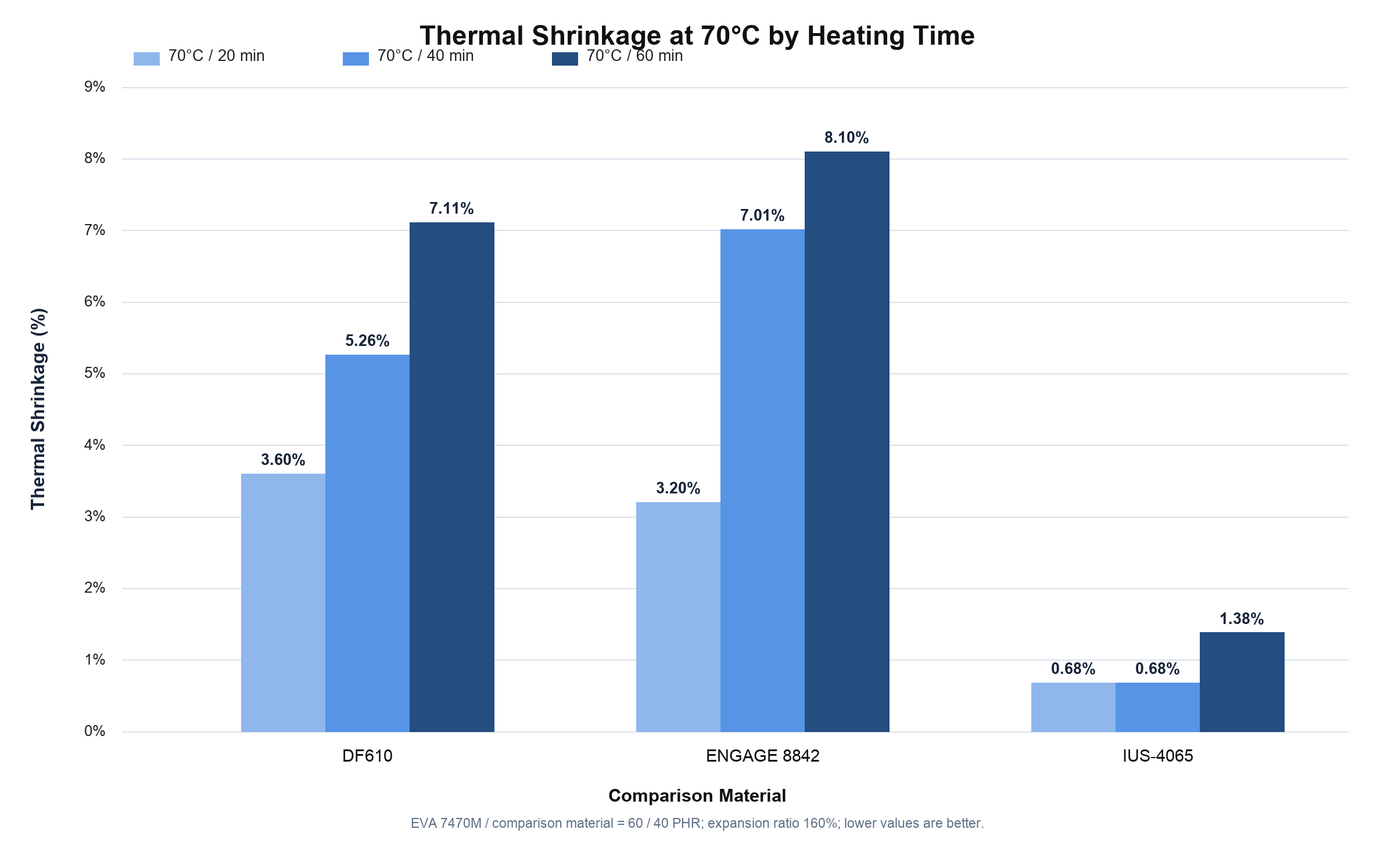
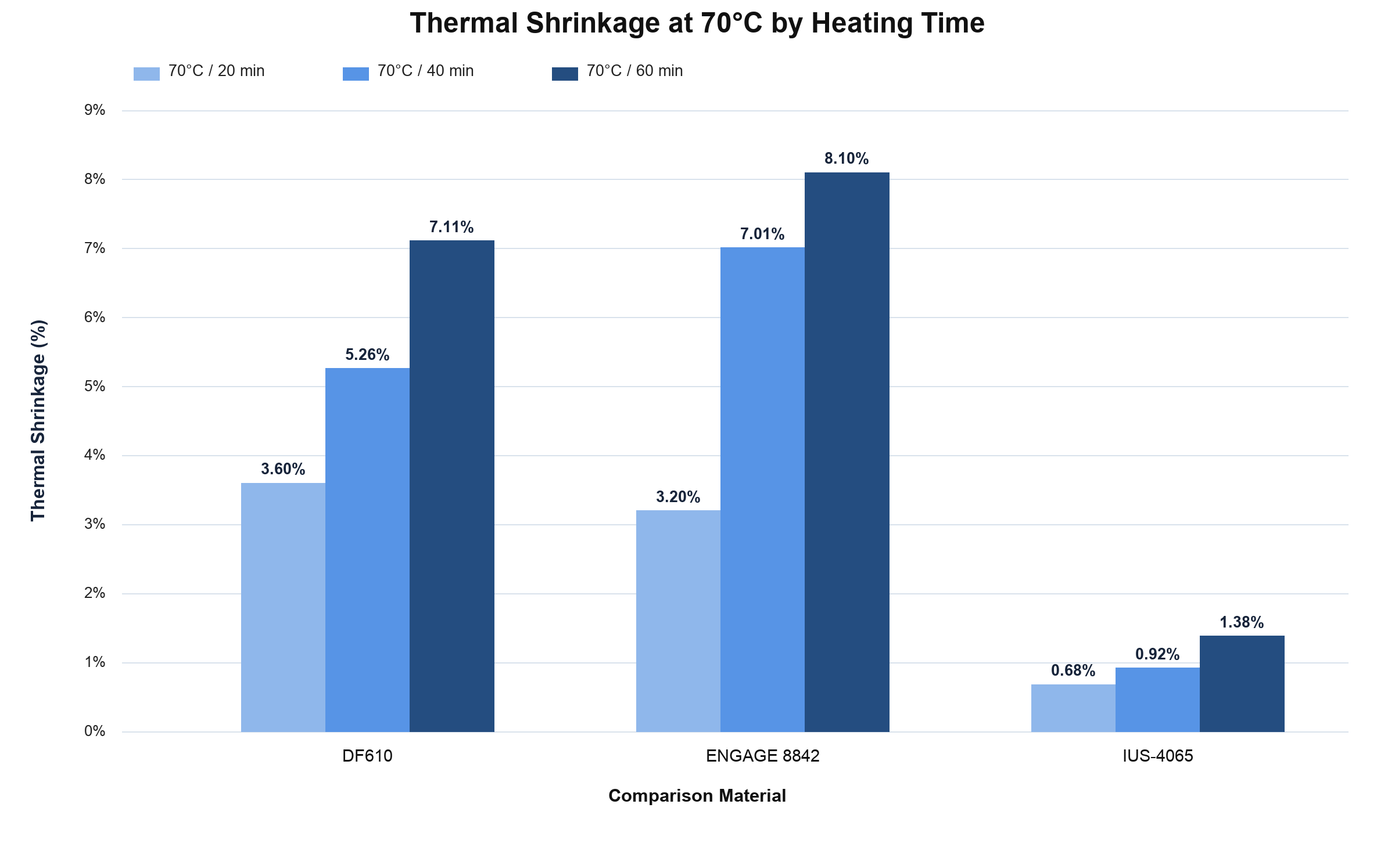
Publish updated IUS-4065 reference assets

diff --git a/docs/ius-4065-reference.html b/docs/ius-4065-reference.html
@@ -2,13 +2,13 @@
 <title>IUS-4065 超柔軟低收縮彈性體</title><meta name="description" content="IUS-4065用於EVA與POE發泡配方，兼顧超柔軟、回彈與二次加工尺寸穩定性。">
 <style>
 :root{--navy:#123a5f;--blue:#2f6da3;--pale:#eef5fa;--ink:#182534;--muted:#5c6978;--line:#d9e3eb}*{box-sizing:border-box}body{margin:0;font-family:Arial,'Noto Sans TC',sans-serif;color:var(--ink);line-height:1.7;background:#fff}.wrap{max-width:1160px;margin:auto;padding:0 28px}header{min-height:600px;background:linear-gradient(90deg,rgba(8,33,57,.95) 0%,rgba(8,33,57,.83) 42%,rgba(8,33,57,.08) 70%),url('./images/ius-reference/visual-01.jpg') center/cover;display:flex;align-items:center;color:#fff}header .copy{max-width:680px;padding:70px 0}.eyebrow{letter-spacing:.14em;text-transform:uppercase;font-size:.82rem;font-weight:700;color:#9ed2ff}h1{font-size:clamp(2.25rem,5vw,4.5rem);line-height:1.08;margin:.3em 0}header p{font-size:1.18rem;max-width:620px}.metrics{display:flex;gap:24px;flex-wrap:wrap;margin-top:28px}.metric strong{display:block;font-size:1.65rem}.metric span{font-size:.88rem;color:#d9eafa}section{padding:76px 0}section.alt{background:#f5f8fb}h2{font-size:2rem;line-height:1.25;margin:0 0 18px}h3{line-height:1.35}.lead{font-size:1.15rem;color:#39495a;max-width:850px}.grid{display:grid;grid-template-columns:repeat(3,1fr);gap:20px;margin-top:28px}.card{border-top:4px solid var(--blue);background:#fff;padding:22px;box-shadow:0 8px 28px rgba(23,60,91,.08)}.card h3{margin:0 0 8px}.two{display:grid;grid-template-columns:1fr 1fr;gap:34px;align-items:center}img{max-width:100%;display:block}figure{margin:26px 0}figcaption{font-size:.88rem;color:var(--muted);margin-top:10px}.chart{border:1px solid var(--line);border-radius:12px;padding:14px;background:#fff}table{border-collapse:collapse;width:100%;font-size:.92rem;margin-top:24px}th{background:var(--navy);color:#fff;text-align:left;padding:12px}td{padding:11px 12px;border:1px solid var(--line)}tr:nth-child(even) td{background:#f7fafc}.note{font-size:.9rem;color:var(--muted)}ul{padding-left:1.25rem}.cta{background:var(--navy);color:#fff}.cta h2{color:#fff}.cta p{color:#dceaf6}footer{padding:28px;background:#0b263f;color:#b8cad8;text-align:center;font-size:.85rem}@media(max-width:800px){.grid,.two{grid-template-columns:1fr}header{min-height:540px;background-position:62% center}section{padding:54px 0}table{display:block;overflow-x:auto}}
-</style><link rel="stylesheet" href="./ius-4065-reference.css?v=20260924-7"><script src="./ius-4065-reference-i18n.js?v=20260929-1" defer></script><script src="./ius-4065-reference-vi.js?v=20260929-1" defer></script></head><body>
-<header><div class="wrap"><div class="copy"><div class="eyebrow">Advanced EVA POE Foam Solution</div><h1>IUS-4065<br>超柔軟低收縮彈性體</h1><p>EVA與POE發泡配方的柔軟度、回彈與二次加工尺寸穩定解決方案。</p><div class="metrics"><div class="metric"><strong>35 C</strong><span>發泡成品硬度</span></div><div class="metric"><strong>0.68%</strong><span>70°C 40分鐘熱收縮率</span></div><div class="metric"><strong>60%</strong><span>球落回彈率</span></div></div><a class="sample-cta" href="#inquiry">歡迎索取樣品，驗證您的配方與加工條件 <b aria-hidden="true">↗</b></a></div></div></header>
+</style><link rel="stylesheet" href="./ius-4065-reference.css?v=20261009-8"><script src="./ius-4065-reference-i18n.js?v=20261009-1" defer></script><script src="./ius-4065-reference-vi.js?v=20261009-1" defer></script></head><body>
+<header><div class="wrap"><div class="copy"><div class="eyebrow">Advanced EVA POE Foam Solution</div><h1>IUS-4065<br>超柔軟低收縮彈性體</h1><p>EVA與POE發泡配方的柔軟度、回彈與二次加工尺寸穩定解決方案。</p><div class="metrics"><div class="metric"><strong>35 C</strong><span>發泡成品硬度</span></div><div class="metric"><strong>0.92%</strong><span>70°C 40分鐘熱收縮率</span></div><div class="metric"><strong>60%</strong><span>球落回彈率</span></div></div><a class="sample-cta" href="#inquiry">歡迎索取樣品，驗證您的配方與加工條件 <b aria-hidden="true">↗</b></a></div></div></header>
 <main><section><div class="wrap"><div class="eyebrow">R&amp;D Challenge</div><h2>超柔軟中底為何容易二次收縮</h2><p class="lead">低硬度POE可改善柔軟度與觸感，但二次加熱可能使發泡結構鬆弛，導致縮邊、翹曲、尺寸超差與貼合錯位。研發真正需要解決的，是降低硬度並維持回彈的同時，控制合貼加熱後的尺寸變化。</p><div class="grid"><article class="card"><h3>柔軟度</h3><p>降低成品硬度，提升包覆、緩衝與踩踏舒適性。</p></article><article class="card"><h3>加工穩定</h3><p>減少烘烤、熱壓與合貼後的二次尺寸變化。</p></article><article class="card"><h3>量產良率</h3><p>降低左右腳差異、貼合錯位與批次外觀波動。</p></article></div></div></section>
 <section class="alt"><div class="wrap"><div class="eyebrow">Material Selection Trade-off</div><h2>材料選擇的矛盾  更柔軟卻更容易受熱收縮</h2><p class="lead">為追求極致柔軟度與高反彈，中底配方常選用TAFMER™或ENGAGE™系列POE。TAFMER™ DF640與ENGAGE™ 8842的典型硬度約為Shore A 54至56，可提供良好的柔軟性與觸感，但其熔融轉變溫度低於50°C；當合貼、烘烤或熱壓溫度高於此區間時，發泡結構可能重新鬆弛，增加二次收縮、縮邊與翹曲風險。</p><table><thead><tr><th>材料</th><th>原料硬度</th><th>DSC熔融峰值</th><th>主要優勢</th><th>配方與加工關注點</th></tr></thead><tbody><tr><td>TAFMER™ DF640</td><td>約54至56A</td><td>低於50°C</td><td>柔軟性與觸感良好</td><td>二次加熱尺寸穩定性需驗證</td></tr><tr><td>ENGAGE™ 8842</td><td>約54至56A</td><td>低於50°C</td><td>柔軟性、彈性良好</td><td>合貼與烘烤後可能產生熱收縮</td></tr><tr><td>IUS-4065</td><td>約40A</td><td>約64°C</td><td>更低硬度與良好柔韌性</td><td>較寬熱加工窗口；成品收縮仍以配方實測確認</td></tr></tbody></table><p class="note">熔融峰值不是決定成品收縮率的唯一因素。EVA比例、交聯系統、發泡倍率與二次加工條件均會影響最終結果；本頁以70°C加熱40分鐘的配方對照測試作為實際驗證。</p></div></section>
-<section><div class="wrap"><div class="eyebrow">Advantages</div><h2>產品優勢</h2><div class="grid"><article class="card"><h3>更低硬度</h3><p>相同60／40 PHR對照配方下，IUS-4065發泡體硬度達Asker C 35，提供更柔軟的踩踏與緩衝感。</p></article><article class="card"><h3>較寬的二次加工窗口</h3><p>DSC熔融峰值約64°C，可降低材料在合貼、烘烤或熱壓過程中過早軟化與結構鬆弛的風險。</p></article><article class="card"><h3>顯著降低熱收縮</h3><p>70°C加熱40分鐘後的熱收縮率為0.68%，較DF610與ENGAGE 8842對照配方降低約79%至81%。</p></article><article class="card"><h3>延展性提升</h3><p>斷裂延伸率達252.36%，較兩組對照配方提高約9%至11%，展現良好的柔韌性。</p></article><article class="card"><h3>回彈性能保持</h3><p>在硬度明顯降低後，球落回彈率仍維持60%，兼顧柔軟度與彈性表現。</p></article><article class="card"><h3>配方與量產支援</h3><p>可依目標硬度、發泡倍率、密度與尺寸收縮要求，提供起始配方、試樣、物性測試及量產驗證。</p></article></div></div></section>
+<section><div class="wrap"><div class="eyebrow">Advantages</div><h2>產品優勢</h2><div class="grid"><article class="card"><h3>更低硬度</h3><p>相同60／40 PHR對照配方下，IUS-4065發泡體硬度達Asker C 35，提供更柔軟的踩踏與緩衝感。</p></article><article class="card"><h3>較寬的二次加工窗口</h3><p>DSC熔融峰值約64°C，可降低材料在合貼、烘烤或熱壓過程中過早軟化與結構鬆弛的風險。</p></article><article class="card"><h3>顯著降低熱收縮</h3><p>70°C加熱40分鐘後的熱收縮率為0.92%，較DF610與ENGAGE 8842對照配方降低約71%至74%。</p></article><article class="card"><h3>延展性提升</h3><p>斷裂延伸率達252.36%，較兩組對照配方提高約9%至11%，展現良好的柔韌性。</p></article><article class="card"><h3>回彈性能保持</h3><p>在硬度明顯降低後，球落回彈率仍維持60%，兼顧柔軟度與彈性表現。</p></article><article class="card"><h3>配方與量產支援</h3><p>可依目標硬度、發泡倍率、密度與尺寸收縮要求，提供起始配方、試樣、物性測試及量產驗證。</p></article></div></div></section>
 <section class="product-description"><div class="wrap"><div><div class="eyebrow">Product Description</div><h2>為EVA與POE發泡體系設計</h2><p>IUS-4065是一款高性能彈性體改質材料，材料硬度約Shore A 40，DSC熔融峰值約64°C。透過合理的EVA／POE比例、交聯系統與發泡條件，可提升二次加工後的尺寸保持能力。</p><p>它不是只追求低硬度的通用型TPE，而是針對柔軟度、回彈與尺寸穩定性難以兼顧的研發痛點設計。</p></div><figure><img src="./images/ius-4065-heat-comparison.png" alt="低熔點材料受熱變形與IUS-4065尺寸穩定對比"><figcaption>低熔點材料受熱變形與 IUS-4065 尺寸穩定性對比</figcaption></figure></div></section>
-<section class="alt"><div class="wrap"><div class="eyebrow">Internal Validation</div><h2>內部實測性能驗證</h2><p class="lead">EVA 7470M／比較材料＝60／40 PHR，發泡倍率160%。數據為特定配方與條件下的典型值。</p><div class="two"><figure class="chart"><img src="./images/ius-reference/visual-03.png" alt="IUS-4065發泡成品硬度比較圖"><figcaption>IUS-4065硬度35C，較兩組對照配方降低約15%至17%。</figcaption></figure><figure class="chart"><img src="./images/ius-reference/visual-04.png" alt="IUS-4065熱收縮率比較圖"><figcaption>熱收縮率0.68%，較兩組對照配方降低約79%至81%。</figcaption></figure></div><figure class="chart timed-shrinkage-chart"><img src="./images/ius-reference/eva-foam-thermal-shrinkage-ius-4065-comparison.png" alt="EVA foam thermal shrinkage comparison of IUS-4065, DF610 and ENGAGE 8842 at 70°C"><figcaption>EVA 7470M／比較材料＝60／40 PHR，發泡倍率160%；數值越低越好。</figcaption></figure><div class="validation-summary"><h3>柔軟不代表容易收縮——IUS-4065兼顧柔韌性與耐熱尺寸穩定性</h3><p>IUS-4065在70°C／60分鐘測試後，熱收縮率僅1.38%，展現優異的耐熱尺寸穩定性。歡迎索取樣品，驗證您的配方與加工條件。</p></div><h3>完整物性比較</h3><table><thead><tr><th>測試項目</th><th>單位與條件</th><th>DF610</th><th>ENGAGE 8842</th><th>IUS-4065</th><th>結果解讀</th></tr></thead><tbody><tr><td>硬度</td><td>Asker C</td><td>41</td><td>42</td><td>35</td><td>更柔軟</td></tr><tr><td>比重</td><td>g/cm³</td><td>0.1826</td><td>0.1875</td><td>0.1816</td><td>最低</td></tr><tr><td>拉伸強度</td><td>kgf/cm²</td><td>19.73</td><td>19.05</td><td>18.25</td><td>略低但接近</td></tr><tr><td>斷裂延伸率</td><td>%</td><td>227.65</td><td>231.43</td><td>252.36</td><td>最高</td></tr><tr><td>撕裂強度</td><td>kgf/cm</td><td>8.56</td><td>8.08</td><td>7.46</td><td>需依需求優化</td></tr><tr><td>壓縮永久變形</td><td>% 23°C 6h</td><td>28.50</td><td>29.12</td><td>31.67</td><td>略高</td></tr><tr><td>熱收縮率</td><td>% 70°C 40min</td><td>3.60</td><td>3.20</td><td>0.68</td><td>顯著降低</td></tr><tr><td>球落回彈率</td><td>%</td><td>60</td><td>61</td><td>60</td><td>維持</td></tr><tr><td>發泡倍率</td><td>%</td><td>160</td><td>160</td><td>160</td><td>相同</td></tr></tbody></table><p class="note">IUS-4065的優勢集中在更低硬度、更高延伸率與顯著降低熱收縮；拉伸與撕裂強度略低，壓縮永久變形略高，應依實際產品要求進一步優化配方。</p></div></section>
+<section class="alt"><div class="wrap"><div class="eyebrow">Internal Validation</div><h2>內部實測性能驗證</h2><p class="lead">EVA 7470M／比較材料＝60／40 PHR，發泡倍率160%。數據為特定配方與條件下的典型值。</p><div class="two"><figure class="chart"><img src="./images/ius-reference/visual-03.png?v=20261009-4" alt="IUS-4065發泡成品硬度比較圖"><figcaption>IUS-4065硬度35C，較兩組對照配方降低約15%至17%。</figcaption></figure><figure class="chart"><img src="./images/ius-reference/visual-04.png?v=20261009-4" alt="IUS-4065熱收縮率比較圖"><figcaption>熱收縮率0.92%，較兩組對照配方降低約71%至74%。</figcaption></figure></div><figure class="chart timed-shrinkage-chart"><img src="./images/ius-reference/eva-foam-thermal-shrinkage-ius-4065-comparison.png?v=20261009-3" alt="EVA foam thermal shrinkage comparison of IUS-4065, DF610 and ENGAGE 8842 at 70°C"><figcaption>EVA 7470M／比較材料＝60／40 PHR，發泡倍率160%；數值越低越好。</figcaption></figure><div class="validation-summary"><h3>柔軟不代表容易收縮——IUS-4065兼顧柔韌性與耐熱尺寸穩定性</h3><p>IUS-4065在70°C／60分鐘測試後，熱收縮率僅1.38%，展現優異的耐熱尺寸穩定性。歡迎索取樣品，驗證您的配方與加工條件。</p></div><h3>完整物性比較</h3><table><thead><tr><th>測試項目</th><th>單位與條件</th><th>DF610</th><th>ENGAGE 8842</th><th>IUS-4065</th><th>結果解讀</th></tr></thead><tbody><tr><td>硬度</td><td>Asker C</td><td>41</td><td>42</td><td>35</td><td>更柔軟</td></tr><tr><td>比重</td><td>g/cm³</td><td>0.1826</td><td>0.1875</td><td>0.1816</td><td>最低</td></tr><tr><td>拉伸強度</td><td>kgf/cm²</td><td>19.73</td><td>19.05</td><td>18.25</td><td>略低但接近</td></tr><tr><td>斷裂延伸率</td><td>%</td><td>227.65</td><td>231.43</td><td>252.36</td><td>最高</td></tr><tr><td>撕裂強度</td><td>kgf/cm</td><td>8.56</td><td>8.08</td><td>7.46</td><td>需依需求優化</td></tr><tr><td>壓縮永久變形</td><td>% 23°C 6h</td><td>28.50</td><td>29.12</td><td>31.67</td><td>略高</td></tr><tr><td>熱收縮率</td><td>% 70°C 40min</td><td>3.60</td><td>3.20</td><td>0.92</td><td>顯著降低</td></tr><tr><td>球落回彈率</td><td>%</td><td>60</td><td>61</td><td>60</td><td>維持</td></tr><tr><td>發泡倍率</td><td>%</td><td>160</td><td>160</td><td>160</td><td>相同</td></tr></tbody></table><p class="note">IUS-4065的優勢集中在更低硬度、更高延伸率與顯著降低熱收縮；拉伸與撕裂強度略低，壓縮永久變形略高，應依實際產品要求進一步優化配方。</p></div></section>
 <section><div class="wrap"><div class="eyebrow">Characteristics</div><h2>產品特性</h2><table><thead><tr><th>項目</th><th>IUS-4065典型資料</th></tr></thead><tbody><tr><td>產品類型</td><td>超柔軟低收縮彈性體改質材料</td></tr><tr><td>材料外觀</td><td>半透明白色顆粒</td></tr><tr><td>材料硬度</td><td>約Shore A 40</td></tr><tr><td>DSC熔融峰值</td><td>約64°C</td></tr><tr><td>主要適用體系</td><td>EVA／POE及彈性體發泡配方</td></tr><tr><td>核心功能</td><td>柔軟化、維持回彈及改善二次加工尺寸穩定性</td></tr><tr><td>適用製程</td><td>化學發泡、射出發泡、模壓成型、冷熱壓及合貼加工</td></tr><tr><td>配方方式</td><td>依目標硬度、發泡倍率、機械性能與加工條件調整添加比例</td></tr></tbody></table></div></section>
 <section class="applications"><div class="wrap two"><div><div class="eyebrow">Applications</div><h2>主要應用領域</h2><ul><li>超柔軟EVA／POE發泡中底</li><li>高回彈運動鞋中底</li><li>功能性鞋墊與足部護理產品</li><li>緩衝、吸震與能量回饋部件</li><li>運動防護與柔性支撐材料</li><li>冷熱壓及二次貼合發泡製品</li></ul></div><img src="./images/ius-reference/visual-05.jpg" alt="IUS-4065顆粒及EVA POE微孔發泡材料"></div></section>
 <section class="cta"><div class="wrap two"><div><h2>從配方選擇到量產驗證</h2><p>提供現有材料牌號、配方比例、目標硬度、發泡倍率及二次加工條件，可進一步進行起始配方、試樣、機械物性與二次熱收縮評估。</p><p class="note">本頁數據為特定配方與測試條件下的內部典型值，僅供材料篩選與配方開發參考，不構成所有配方、製程或成品的保證規格。</p><a class="sample-cta" href="#inquiry">歡迎索取樣品，驗證您的配方與加工條件 <b aria-hidden="true">↗</b></a></div><img src="./images/ius-reference/visual-06.jpg" alt="微孔發泡結構及配方驗證"></div></section></main><script>

diff --git a/docs/ius-4065-reference-vi.js b/docs/ius-4065-reference-vi.js
@@ -19,7 +19,7 @@
     "熔融峰值不是決定成品收縮率的唯一因素。EVA比例、交聯系統、發泡倍率與二次加工條件均會影響最終結果；本頁以70°C加熱40分鐘的配方對照測試作為實際驗證。": "Đỉnh nóng chảy không phải yếu tố duy nhất quyết định độ co của thành phẩm. Tỷ lệ EVA, hệ liên kết ngang, tỷ lệ nở và điều kiện gia công lần hai đều ảnh hưởng kết quả cuối cùng; trang này sử dụng thử nghiệm đối chứng ở 70°C trong 40 phút để xác nhận thực tế.",
     "產品優勢": "Ưu điểm sản phẩm", "更低硬度": "Độ cứng thấp hơn", "相同60／40 PHR對照配方下，IUS-4065發泡體硬度達Asker C 35，提供更柔軟的踩踏與緩衝感。": "Trong cùng công thức đối chứng 60/40 PHR, xốp IUS-4065 đạt độ cứng Asker C 35, mang lại cảm giác mềm và đệm tốt hơn.",
     "較寬的二次加工窗口": "Cửa sổ gia công lần hai rộng hơn", "DSC熔融峰值約64°C，可降低材料在合貼、烘烤或熱壓過程中過早軟化與結構鬆弛的風險。": "Đỉnh nóng chảy DSC khoảng 64°C giúp giảm nguy cơ vật liệu mềm quá sớm và cấu trúc bị giãn lỏng trong quá trình ép dán, sấy hoặc ép nóng.",
-    "顯著降低熱收縮": "Giảm đáng kể độ co nhiệt", "70°C加熱40分鐘後的熱收縮率為0.68%，較DF610與ENGAGE 8842對照配方降低約79%至81%。": "Sau 40 phút ở 70°C, độ co nhiệt là 0,68%, thấp hơn khoảng 79%-81% so với công thức đối chứng DF610 và ENGAGE 8842.",
+    "顯著降低熱收縮": "Giảm đáng kể độ co nhiệt", "70°C加熱40分鐘後的熱收縮率為0.92%，較DF610與ENGAGE 8842對照配方降低約71%至74%。": "Sau 40 phút ở 70°C, độ co nhiệt là 0,92%, thấp hơn khoảng 71%-74% so với công thức đối chứng DF610 và ENGAGE 8842.",
     "延展性提升": "Tăng độ giãn dài", "斷裂延伸率達252.36%，較兩組對照配方提高約9%至11%，展現良好的柔韌性。": "Độ giãn dài khi đứt đạt 252,36%, cao hơn khoảng 9%-11% so với hai công thức đối chứng, thể hiện độ dẻo tốt.",
     "回彈性能保持": "Duy trì độ đàn hồi", "在硬度明顯降低後，球落回彈率仍維持60%，兼顧柔軟度與彈性表現。": "Dù độ cứng giảm rõ rệt, độ nảy bóng rơi vẫn duy trì 60%, cân bằng độ mềm và độ đàn hồi.",
     "配方與量產支援": "Hỗ trợ công thức và sản xuất hàng loạt", "可依目標硬度、發泡倍率、密度與尺寸收縮要求，提供起始配方、試樣、物性測試及量產驗證。": "Có thể cung cấp công thức khởi đầu, mẫu thử, kiểm tra tính chất và xác nhận sản xuất theo độ cứng mục tiêu, tỷ lệ nở, mật độ và yêu cầu co kích thước.",
@@ -27,7 +27,7 @@
     "它不是只追求低硬度的通用型TPE，而是針對柔軟度、回彈與尺寸穩定性難以兼顧的研發痛點設計。": "Đây không phải TPE thông dụng chỉ tập trung vào độ cứng thấp, mà được thiết kế để giải quyết bài toán cân bằng độ mềm, độ đàn hồi và độ ổn định kích thước.",
     "低熔點材料受熱變形與IUS-4065尺寸穩定對比": "So sánh biến dạng nhiệt của vật liệu nóng chảy thấp với độ ổn định kích thước của IUS-4065", "低熔點材料受熱變形與 IUS-4065 尺寸穩定性對比": "So sánh biến dạng nhiệt của vật liệu nóng chảy thấp và độ ổn định kích thước của IUS-4065",
     "內部實測性能驗證": "Xác nhận hiệu suất bằng thử nghiệm nội bộ", "EVA 7470M／比較材料＝60／40 PHR，發泡倍率160%。數據為特定配方與條件下的典型值。": "EVA 7470M/vật liệu so sánh = 60/40 PHR; tỷ lệ nở 160%. Dữ liệu là giá trị điển hình trong công thức và điều kiện thử nghiệm xác định.",
-    "IUS-4065硬度35C，較兩組對照配方降低約15%至17%。": "Độ cứng IUS-4065 là 35C, thấp hơn khoảng 15%-17% so với hai công thức đối chứng.", "熱收縮率0.68%，較兩組對照配方降低約79%至81%。": "Độ co nhiệt 0,68%, thấp hơn khoảng 79%-81% so với hai công thức đối chứng.", "EVA 7470M／比較材料＝60／40 PHR，發泡倍率160%；數值越低越好。": "EVA 7470M/vật liệu so sánh = 60/40 PHR; tỷ lệ nở 160%; giá trị càng thấp càng tốt.",
+    "IUS-4065硬度35C，較兩組對照配方降低約15%至17%。": "Độ cứng IUS-4065 là 35C, thấp hơn khoảng 15%-17% so với hai công thức đối chứng.", "熱收縮率0.92%，較兩組對照配方降低約71%至74%。": "Độ co nhiệt 0,92%, thấp hơn khoảng 71%-74% so với hai công thức đối chứng.", "EVA 7470M／比較材料＝60／40 PHR，發泡倍率160%；數值越低越好。": "EVA 7470M/vật liệu so sánh = 60/40 PHR; tỷ lệ nở 160%; giá trị càng thấp càng tốt.",
     "柔軟不代表容易收縮——IUS-4065兼顧柔韌性與耐熱尺寸穩定性": "Mềm không đồng nghĩa với dễ co - IUS-4065 cân bằng độ dẻo và độ ổn định kích thước chịu nhiệt", "IUS-4065在70°C／60分鐘測試後，熱收縮率僅1.38%，展現優異的耐熱尺寸穩定性。歡迎索取樣品，驗證您的配方與加工條件。": "Sau thử nghiệm 60 phút ở 70°C, IUS-4065 chỉ co nhiệt 1,38%, thể hiện độ ổn định kích thước chịu nhiệt vượt trội. Hãy yêu cầu mẫu để xác nhận công thức và điều kiện gia công của bạn.",
     "完整物性比較": "So sánh đầy đủ các tính chất", "測試項目": "Hạng mục thử nghiệm", "單位與條件": "Đơn vị và điều kiện", "結果解讀": "Diễn giải kết quả", "硬度": "Độ cứng", "比重": "Tỷ trọng", "拉伸強度": "Độ bền kéo", "斷裂延伸率": "Độ giãn dài khi đứt", "撕裂強度": "Độ bền xé", "壓縮永久變形": "Biến dạng dư khi nén", "熱收縮率": "Độ co nhiệt", "球落回彈率": "Độ nảy bóng rơi", "發泡倍率": "Tỷ lệ nở", "更柔軟": "Mềm hơn", "最低": "Thấp nhất", "略低但接近": "Thấp hơn nhẹ nhưng tương đương", "最高": "Cao nhất", "需依需求優化": "Cần tối ưu theo yêu cầu", "略高": "Cao hơn nhẹ", "顯著降低": "Giảm đáng kể", "維持": "Duy trì", "相同": "Tương đương",
     "IUS-4065的優勢集中在更低硬度、更高延伸率與顯著降低熱收縮；拉伸與撕裂強度略低，壓縮永久變形略高，應依實際產品要求進一步優化配方。": "Ưu điểm của IUS-4065 tập trung ở độ cứng thấp hơn, độ giãn dài cao hơn và giảm đáng kể độ co nhiệt. Độ bền kéo và xé thấp hơn nhẹ, biến dạng dư khi nén cao hơn nhẹ; công thức cần được tối ưu theo yêu cầu sản phẩm thực tế.",
@@ -49,9 +49,9 @@
     if (value && translations[value]) element.setAttribute("alt", translations[value]);
   });
   const imageTranslations = {
-    "./images/ius-reference/visual-03.png": "./images/ius-reference/visual-03-vi.png",
-    "./images/ius-reference/visual-04.png": "./images/ius-reference/visual-04-vi.png",
-    "./images/ius-reference/eva-foam-thermal-shrinkage-ius-4065-comparison.png": "./images/ius-reference/eva-foam-thermal-shrinkage-ius-4065-comparison-vi.png"
+    "./images/ius-reference/visual-03.png?v=20261009-4": "./images/ius-reference/visual-03-vi.png?v=20261009-4",
+    "./images/ius-reference/visual-04.png?v=20261009-4": "./images/ius-reference/visual-04-vi.png?v=20261009-4",
+    "./images/ius-reference/eva-foam-thermal-shrinkage-ius-4065-comparison.png?v=20261009-3": "./images/ius-reference/eva-foam-thermal-shrinkage-ius-4065-comparison-vi.png?v=20261009-3"
   };
   document.querySelectorAll("img[src]").forEach((image) => {
     const source = image.getAttribute("src");

diff --git a/docs/ius-4065-reference-i18n.js b/docs/ius-4065-reference-i18n.js
@@ -21,7 +21,7 @@
     "熔融峰值不是決定成品收縮率的唯一因素。EVA比例、交聯系統、發泡倍率與二次加工條件均會影響最終結果；本頁以70°C加熱40分鐘的配方對照測試作為實際驗證。": "Melting peak is not the only factor determining finished-product shrinkage. EVA ratio, crosslinking system, expansion ratio and secondary-processing conditions all affect the final result. This page uses a comparative formulation test at 70°C for 40 minutes for practical validation.",
     "產品優勢": "Product Advantages", "更低硬度": "Lower Hardness", "相同60／40 PHR對照配方下，IUS-4065發泡體硬度達Asker C 35，提供更柔軟的踩踏與緩衝感。": "In the same 60/40 PHR comparative formulation, IUS-4065 foam reaches Asker C 35 for a softer step-in and cushioning feel.",
     "較寬的二次加工窗口": "Wider Secondary-Processing Window", "DSC熔融峰值約64°C，可降低材料在合貼、烘烤或熱壓過程中過早軟化與結構鬆弛的風險。": "A DSC melting peak of approximately 64°C helps reduce premature softening and structural relaxation during lamination, baking or hot pressing.",
-    "顯著降低熱收縮": "Significantly Lower Thermal Shrinkage", "70°C加熱40分鐘後的熱收縮率為0.68%，較DF610與ENGAGE 8842對照配方降低約79%至81%。": "Thermal shrinkage is 0.68% after 40 minutes at 70°C, approximately 79–81% lower than the DF610 and ENGAGE 8842 comparative formulations.",
+    "顯著降低熱收縮": "Significantly Lower Thermal Shrinkage", "70°C加熱40分鐘後的熱收縮率為0.92%，較DF610與ENGAGE 8842對照配方降低約71%至74%。": "Thermal shrinkage is 0.92% after 40 minutes at 70°C, approximately 71–74% lower than the DF610 and ENGAGE 8842 comparative formulations.",
     "延展性提升": "Improved Elongation", "斷裂延伸率達252.36%，較兩組對照配方提高約9%至11%，展現良好的柔韌性。": "Elongation at break reaches 252.36%, approximately 9–11% higher than the two comparative formulations, demonstrating good flexibility.",
     "回彈性能保持": "Rebound Maintained", "在硬度明顯降低後，球落回彈率仍維持60%，兼顧柔軟度與彈性表現。": "Even with substantially lower hardness, ball rebound remains at 60%, balancing softness and elasticity.",
     "配方與量產支援": "Formulation and Production Support", "可依目標硬度、發泡倍率、密度與尺寸收縮要求，提供起始配方、試樣、物性測試及量產驗證。": "Starting formulations, samples, physical-property testing and production validation can be provided according to target hardness, expansion ratio, density and dimensional-shrinkage requirements.",
@@ -30,7 +30,7 @@
     "低熔點材料受熱變形與IUS-4065尺寸穩定對比": "Comparison of heat deformation in a low-melting material and dimensional stability in IUS-4065", "低熔點材料受熱變形與 IUS-4065 尺寸穩定性對比": "Low-melting material heat deformation versus IUS-4065 dimensional stability",
     "內部實測性能驗證": "Internal Performance Validation", "EVA 7470M／比較材料＝60／40 PHR，發泡倍率160%。數據為特定配方與條件下的典型值。": "EVA 7470M/comparison material = 60/40 PHR; expansion ratio 160%. Data are typical values under the specified formulation and conditions.",
     "IUS-4065發泡成品硬度比較圖": "IUS-4065 foamed-product hardness comparison chart", "IUS-4065熱收縮率比較圖": "IUS-4065 thermal-shrinkage comparison chart", "IUS-4065顆粒及EVA POE微孔發泡材料": "IUS-4065 pellets and EVA/POE microcellular foam materials", "微孔發泡結構及配方驗證": "Microcellular foam structure and formulation validation",
-    "IUS-4065硬度35C，較兩組對照配方降低約15%至17%。": "IUS-4065 hardness is 35C, approximately 15–17% lower than the two comparative formulations.", "熱收縮率0.68%，較兩組對照配方降低約79%至81%。": "Thermal shrinkage is 0.68%, approximately 79–81% lower than the two comparative formulations.", "EVA 7470M／比較材料＝60／40 PHR，發泡倍率160%；數值越低越好。": "EVA 7470M/comparison material = 60/40 PHR; expansion ratio 160%; lower values are better.",
+    "IUS-4065硬度35C，較兩組對照配方降低約15%至17%。": "IUS-4065 hardness is 35C, approximately 15–17% lower than the two comparative formulations.", "熱收縮率0.92%，較兩組對照配方降低約71%至74%。": "Thermal shrinkage is 0.92%, approximately 71–74% lower than the two comparative formulations.", "EVA 7470M／比較材料＝60／40 PHR，發泡倍率160%；數值越低越好。": "EVA 7470M/comparison material = 60/40 PHR; expansion ratio 160%; lower values are better.",
     "柔軟不代表容易收縮——IUS-4065兼顧柔韌性與耐熱尺寸穩定性": "Soft Does Not Have to Mean Shrink-Prone — IUS-4065 Balances Flexibility and Heat-Resistant Dimensional Stability", "IUS-4065在70°C／60分鐘測試後，熱收縮率僅1.38%，展現優異的耐熱尺寸穩定性。歡迎索取樣品，驗證您的配方與加工條件。": "After testing at 70°C for 60 minutes, IUS-4065 shows only 1.38% thermal shrinkage and excellent heat-resistant dimensional stability. Request a sample to validate your formulation and processing conditions.",
     "硬度": "Hardness", "比重": "Specific gravity", "拉伸強度": "Tensile strength", "斷裂延伸率": "Elongation at break", "撕裂強度": "Tear strength", "壓縮永久變形": "Compression set", "熱收縮率": "Thermal shrinkage", "發泡倍率": "Expansion ratio", "約Shore A 40": "Approx. Shore A 40",
     "IUS-4065的優勢集中在更低硬度、更高延伸率與顯著降低熱收縮；拉伸與撕裂強度略低，壓縮永久變形略高，應依實際產品要求進一步優化配方。": "IUS-4065 provides lower hardness, higher elongation and substantially reduced thermal shrinkage. Tensile and tear strength are slightly lower and compression set is slightly higher, so the formulation should be optimized for actual product requirements.",
@@ -53,9 +53,9 @@
     if (value && translations[value]) element.setAttribute("alt", translations[value]);
   });
   const imageTranslations = {
-    "./images/ius-reference/visual-03.png": "./images/ius-reference/visual-03-en.png",
-    "./images/ius-reference/visual-04.png": "./images/ius-reference/visual-04-en.png",
-    "./images/ius-reference/eva-foam-thermal-shrinkage-ius-4065-comparison.png": "./images/ius-reference/eva-foam-thermal-shrinkage-ius-4065-comparison-en.png",
+    "./images/ius-reference/visual-03.png?v=20261009-4": "./images/ius-reference/visual-03-en.png?v=20261009-4",
+    "./images/ius-reference/visual-04.png?v=20261009-4": "./images/ius-reference/visual-04-en.png?v=20261009-4",
+    "./images/ius-reference/eva-foam-thermal-shrinkage-ius-4065-comparison.png?v=20261009-3": "./images/ius-reference/eva-foam-thermal-shrinkage-ius-4065-comparison-en.png?v=20261009-3",
   };
   document.querySelectorAll("img[src]").forEach((image) => {
     const source = image.getAttribute("src");

diff --git a/docs/ius-4065-reference.css b/docs/ius-4065-reference.css
@@ -35,6 +35,7 @@ figcaption{margin-top:12px;color:#65798a}
 table{font-size:.93rem;margin-top:30px;border-collapse:separate;border-spacing:0;border:1px solid #d8e4f1;border-radius:14px;overflow:hidden;background:#fff}
 th{background:#172b40;padding:15px 17px;font-weight:800}
 td{padding:14px 17px;border:0;border-bottom:1px solid #e2ebf4;vertical-align:top}
+tbody td{font-size:calc(.93rem + 4px)}
 tr:nth-child(even) td{background:#f7faff}
 tbody tr:last-child td{border-bottom:0}
 tbody tr:has(td:first-child:is(:not(:empty))):hover td{background:#edf4ff}
